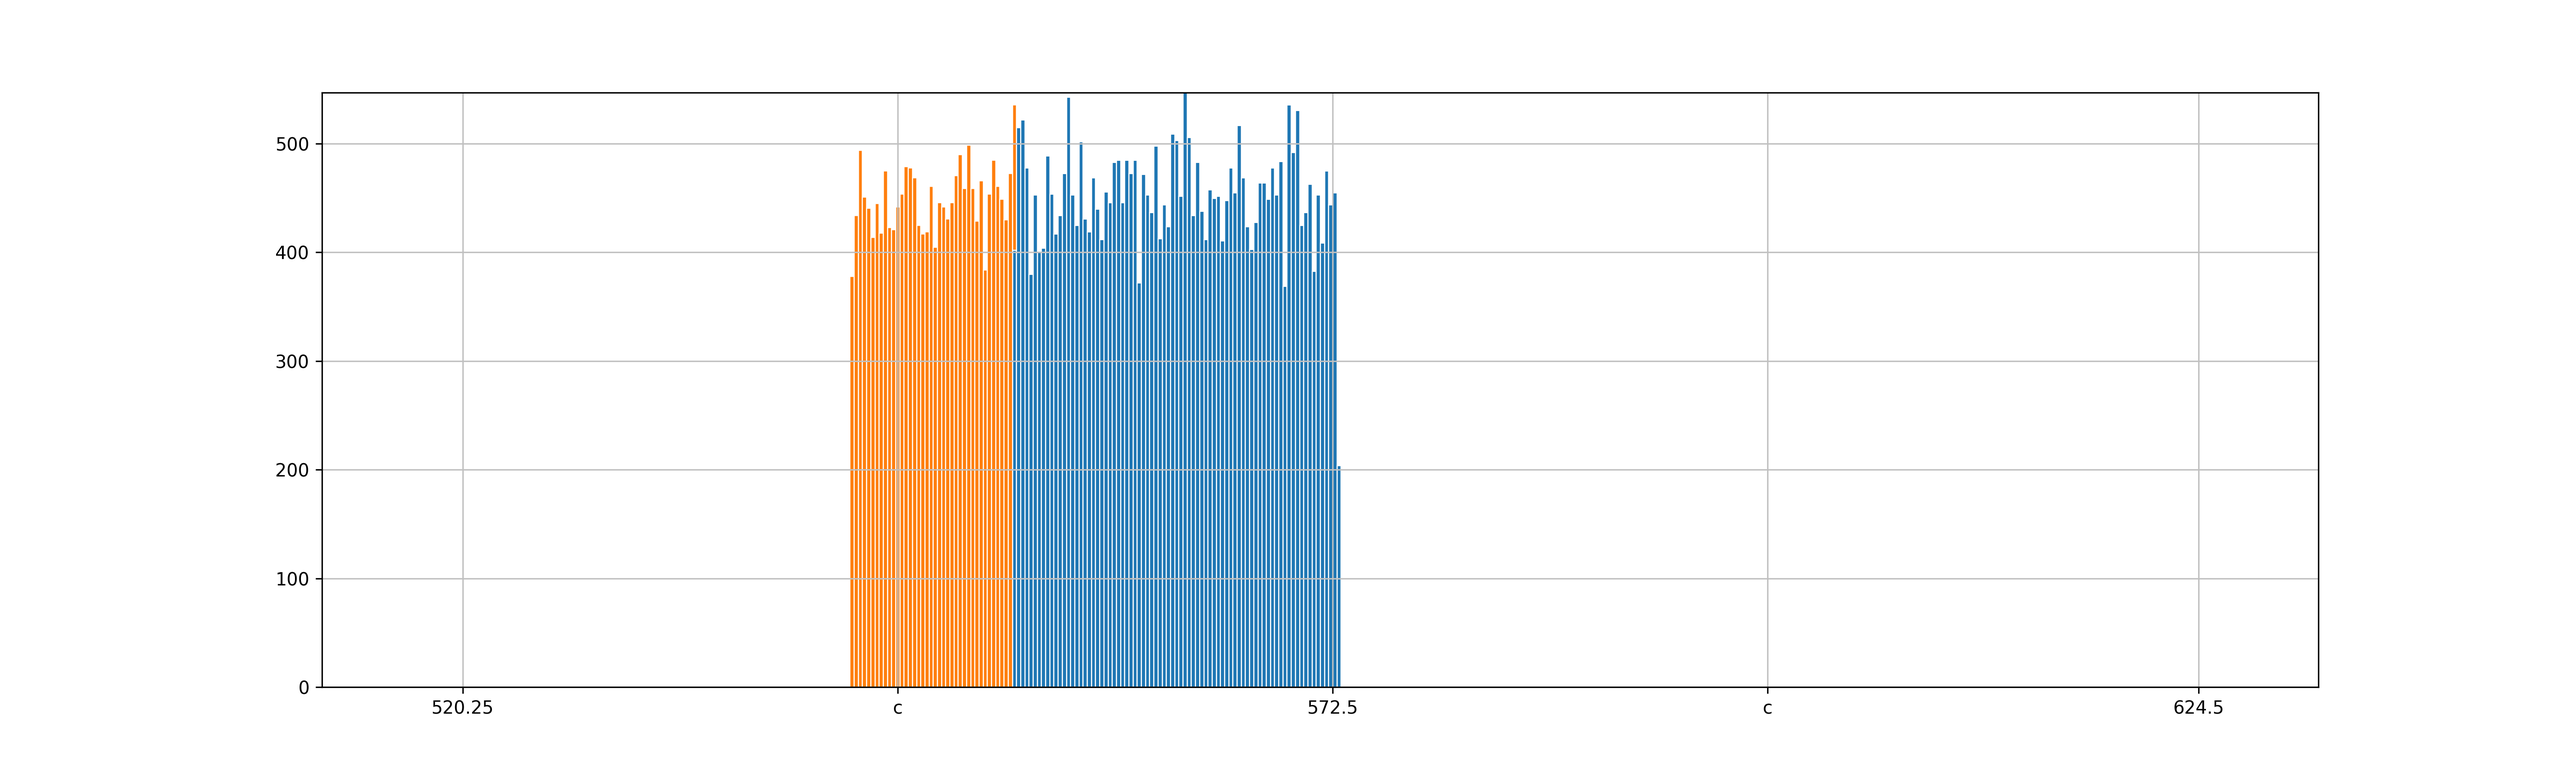
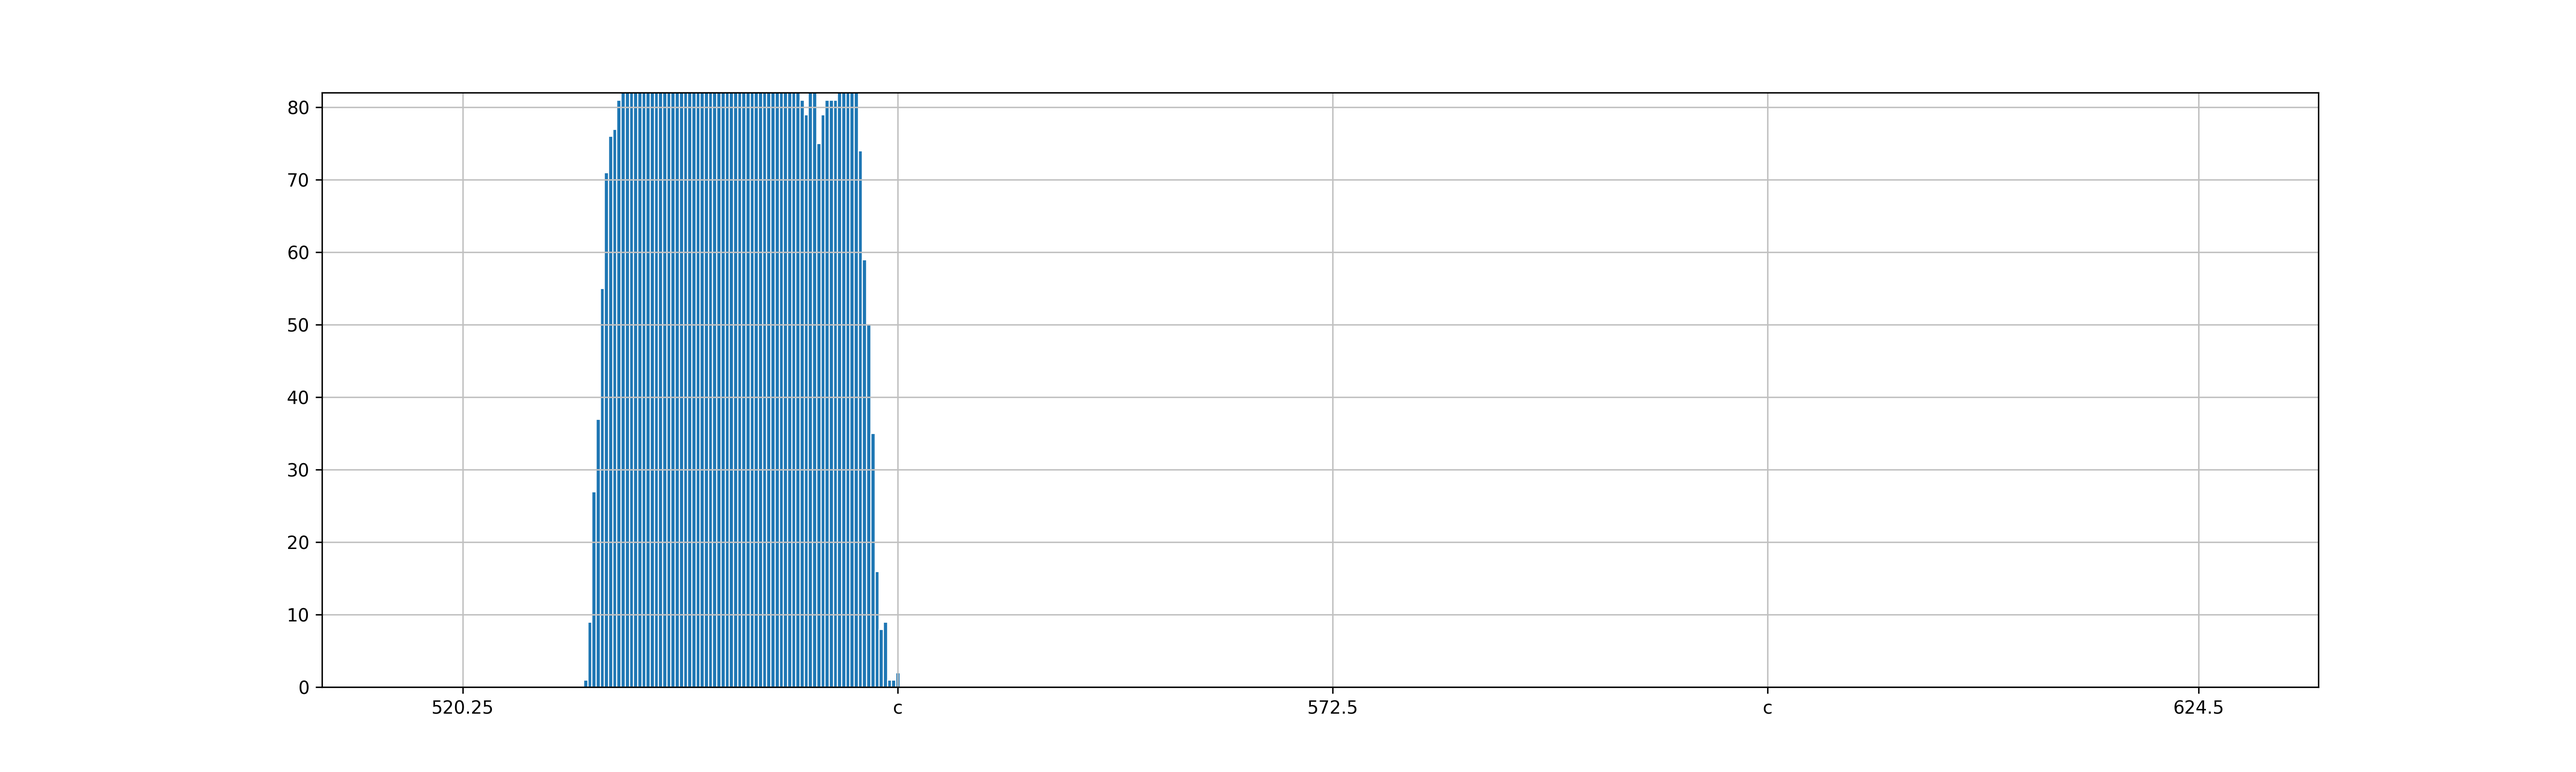
scope of 05. Stop bits added

Changed region(s): [[0.2182, 0.1244, 0.5298, 0.9022], [0.0935, 0.3111, 0.1247, 0.3422]]

diff --git a/Analyze.py b/Analyze.py
@@ -40,189 +40,189 @@ raw = '''[2278]:    0,    0
 [2316]:    0,    0
 [2317]:    0,    0
 [2318]:    0,    0
-[2319]:    0,    0
-[2320]:    0,    0
-[2321]:    0,    0
-[2322]:    0,    0
-[2323]:    0,    0
-[2324]:    0,    0
-[2325]:    0,    0
-[2326]:    0,    0
-[2327]:    0,    0
-[2328]:    0,    0
-[2329]:    0,    0
-[2330]:    0,    0
-[2331]:    0,    0
-[2332]:    0,    0
-[2333]:    0,    0
-[2334]:    0,    0
-[2335]:    0,    0
-[2336]:    0,    0
-[2337]:    0,    0
-[2338]:    0,    0
-[2339]:    0,    0
-[2340]:    0,    0
-[2341]:    0,    0
-[2342]:    0,    0
-[2343]:    0,    0
-[2344]:    0,    0
-[2345]:    0,    0
-[2346]:    0,    0
-[2347]:    0,    0
-[2348]:    0,    0
-[2349]:    0,    0
-[2350]:    0,    0
-[2351]:    0,    0
-[2352]:    0,    0
-[2353]:    0,    0
-[2354]:    0,    0
-[2355]:    0,    0
-[2356]:    0,    0
-[2357]:    0,    0
-[2358]:    0,    0
-[2359]:    0,    0
-[2360]:    0,    0
-[2361]:    0,    0
-[2362]:    0,    0
-[2363]:    0,    0
-[2364]:    0,    0
-[2365]:    0,    0
-[2366]:    0,    0
-[2367]:    0,    0
-[2368]:    0,    0
-[2369]:    0,    0
-[2370]:    0,    0
-[2371]:    0,    0
-[2372]:    0,    0
-[2373]:    0,    0
-[2374]:    0,    0
-[2375]:    0,    0
-[2376]:    0,    0
-[2377]:    0,    0
-[2378]:    0,    0
-[2379]:    0,    0
-[2380]:    0,    0
-[2381]:    0,    0
-[2382]:    0,    0
-[2383]:    0,  378
-[2384]:    0,  434
-[2385]:    0,  494
-[2386]:    0,  451
-[2387]:    0,  441
-[2388]:    0,  414
-[2389]:    0,  445
-[2390]:    0,  418
-[2391]:    0,  475
-[2392]:    0,  423
-[2393]:    0,  421
-[2394]:    0,  442
-[2395]:    0,  454
-[2396]:    0,  479
-[2397]:    0,  478
-[2398]:    0,  469
-[2399]:    0,  425
-[2400]:    0,  417
-[2401]:    0,  419
-[2402]:    0,  461
-[2403]:    0,  405
-[2404]:    0,  446
-[2405]:    0,  442
-[2406]:    0,  431
-[2407]:    0,  446
-[2408]:    0,  471
-[2409]:    0,  490
-[2410]:    0,  459
-[2411]:    0,  499
-[2412]:    0,  459
-[2413]:    0,  429
-[2414]:    0,  466
-[2415]:    0,  384
-[2416]:    0,  454
-[2417]:    0,  485
-[2418]:    0,  461
-[2419]:    0,  449
-[2420]:    0,  430
-[2421]:    0,  473
-[2422]:  402,  134
-[2423]:  515,    0
-[2424]:  522,    0
-[2425]:  478,    0
-[2426]:  380,    0
-[2427]:  453,    0
-[2428]:  400,    0
-[2429]:  404,    0
-[2430]:  489,    0
-[2431]:  454,    0
-[2432]:  417,    0
-[2433]:  434,    0
-[2434]:  473,    0
-[2435]:  543,    0
-[2436]:  453,    0
-[2437]:  425,    0
-[2438]:  502,    0
-[2439]:  431,    0
-[2440]:  419,    0
-[2441]:  469,    0
-[2442]:  440,    0
-[2443]:  412,    0
-[2444]:  456,    0
-[2445]:  446,    0
-[2446]:  483,    0
-[2447]:  485,    0
-[2448]:  446,    0
-[2449]:  485,    0
-[2450]:  473,    0
-[2451]:  485,    0
-[2452]:  372,    0
-[2453]:  472,    0
-[2454]:  453,    0
-[2455]:  437,    0
-[2456]:  498,    0
-[2457]:  413,    0
-[2458]:  444,    0
-[2459]:  424,    0
-[2460]:  509,    0
-[2461]:  503,    0
-[2462]:  452,    0
-[2463]:  547,    0
-[2464]:  506,    0
-[2465]:  434,    0
-[2466]:  483,    0
-[2467]:  438,    0
-[2468]:  412,    0
-[2469]:  458,    0
-[2470]:  450,    0
-[2471]:  452,    0
-[2472]:  411,    0
-[2473]:  448,    0
-[2474]:  478,    0
-[2475]:  455,    0
-[2476]:  517,    0
-[2477]:  469,    0
-[2478]:  424,    0
-[2479]:  403,    0
-[2480]:  428,    0
-[2481]:  464,    0
-[2482]:  464,    0
-[2483]:  449,    0
-[2484]:  478,    0
-[2485]:  453,    0
-[2486]:  484,    0
-[2487]:  369,    0
-[2488]:  536,    0
-[2489]:  492,    0
-[2490]:  531,    0
-[2491]:  425,    0
-[2492]:  437,    0
-[2493]:  463,    0
-[2494]:  383,    0
-[2495]:  453,    0
-[2496]:  409,    0
-[2497]:  475,    0
-[2498]:  444,    0
+[2319]:    1,    0
+[2320]:    9,    0
+[2321]:   27,    0
+[2322]:   37,    0
+[2323]:   55,    0
+[2324]:   71,    0
+[2325]:   76,    0
+[2326]:   77,    0
+[2327]:   81,    0
+[2328]:   82,    0
+[2329]:   82,    0
+[2330]:   82,    0
+[2331]:   82,    0
+[2332]:   82,    0
+[2333]:   82,    0
+[2334]:   82,    0
+[2335]:   82,    0
+[2336]:   82,    0
+[2337]:   82,    0
+[2338]:   82,    0
+[2339]:   82,    0
+[2340]:   82,    0
+[2341]:   82,    0
+[2342]:   82,    0
+[2343]:   82,    0
+[2344]:   82,    0
+[2345]:   82,    0
+[2346]:   82,    0
+[2347]:   82,    0
+[2348]:   82,    0
+[2349]:   82,    0
+[2350]:   82,    0
+[2351]:   82,    0
+[2352]:   82,    0
+[2353]:   82,    0
+[2354]:   82,    0
+[2355]:   82,    0
+[2356]:   82,    0
+[2357]:   82,    0
+[2358]:   82,    0
+[2359]:   82,    0
+[2360]:   82,    0
+[2361]:   82,    0
+[2362]:   82,    0
+[2363]:   82,    0
+[2364]:   82,    0
+[2365]:   82,    0
+[2366]:   82,    0
+[2367]:   82,    0
+[2368]:   82,    0
+[2369]:   82,    0
+[2370]:   82,    0
+[2371]:   81,    0
+[2372]:   79,    0
+[2373]:   82,    0
+[2374]:   82,    0
+[2375]:   75,    0
+[2376]:   79,    0
+[2377]:   81,    0
+[2378]:   81,    0
+[2379]:   81,    0
+[2380]:   82,    0
+[2381]:   82,    0
+[2382]:   82,    0
+[2383]:   82,    0
+[2384]:   82,    0
+[2385]:   74,    0
+[2386]:   59,    0
+[2387]:   50,    0
+[2388]:   35,    0
+[2389]:   16,    0
+[2390]:    8,    0
+[2391]:    9,    0
+[2392]:    1,    0
+[2393]:    1,    0
+[2394]:    2,    0
+[2395]:    0,    0
+[2396]:    0,    0
+[2397]:    0,    0
+[2398]:    0,    0
+[2399]:    0,    0
+[2400]:    0,    0
+[2401]:    0,    0
+[2402]:    0,    0
+[2403]:    0,    0
+[2404]:    0,    0
+[2405]:    0,    0
+[2406]:    0,    0
+[2407]:    0,    0
+[2408]:    0,    0
+[2409]:    0,    0
+[2410]:    0,    0
+[2411]:    0,    0
+[2412]:    0,    0
+[2413]:    0,    0
+[2414]:    0,    0
+[2415]:    0,    0
+[2416]:    0,    0
+[2417]:    0,    0
+[2418]:    0,    0
+[2419]:    0,    0
+[2420]:    0,    0
+[2421]:    0,    0
+[2422]:    0,    0
+[2423]:    0,    0
+[2424]:    0,    0
+[2425]:    0,    0
+[2426]:    0,    0
+[2427]:    0,    0
+[2428]:    0,    0
+[2429]:    0,    0
+[2430]:    0,    0
+[2431]:    0,    0
+[2432]:    0,    0
+[2433]:    0,    0
+[2434]:    0,    0
+[2435]:    0,    0
+[2436]:    0,    0
+[2437]:    0,    0
+[2438]:    0,    0
+[2439]:    0,    0
+[2440]:    0,    0
+[2441]:    0,    0
+[2442]:    0,    0
+[2443]:    0,    0
+[2444]:    0,    0
+[2445]:    0,    0
+[2446]:    0,    0
+[2447]:    0,    0
+[2448]:    0,    0
+[2449]:    0,    0
+[2450]:    0,    0
+[2451]:    0,    0
+[2452]:    0,    0
+[2453]:    0,    0
+[2454]:    0,    0
+[2455]:    0,    0
+[2456]:    0,    0
+[2457]:    0,    0
+[2458]:    0,    0
+[2459]:    0,    0
+[2460]:    0,    0
+[2461]:    0,    0
+[2462]:    0,    0
+[2463]:    0,    0
+[2464]:    0,    0
+[2465]:    0,    0
+[2466]:    0,    0
+[2467]:    0,    0
+[2468]:    0,    0
+[2469]:    0,    0
+[2470]:    0,    0
+[2471]:    0,    0
+[2472]:    0,    0
+[2473]:    0,    0
+[2474]:    0,    0
+[2475]:    0,    0
+[2476]:    0,    0
+[2477]:    0,    0
+[2478]:    0,    0
+[2479]:    0,    0
+[2480]:    0,    0
+[2481]:    0,    0
+[2482]:    0,    0
+[2483]:    0,    0
+[2484]:    0,    0
+[2485]:    0,    0
+[2486]:    0,    0
+[2487]:    0,    0
+[2488]:    0,    0
+[2489]:    0,    0
+[2490]:    0,    0
+[2491]:    0,    0
+[2492]:    0,    0
+[2493]:    0,    0
+[2494]:    0,    0
+[2495]:    0,    0
+[2496]:    0,    0
+[2497]:    0,    0
+[2498]:    0,    0
 [2499]->12
-[2499]:  455,    0
-[2500]:  204,    0
+[2499]:    0,    0
+[2500]:    0,    0
 [2501]:    0,    0
 [2502]:    0,    0
 [2503]:    0,    0

diff --git a/Result/Scope.md b/Result/Scope.md
@@ -1,0 +1,7 @@
+# Scope 0.5 Stop Bit
+
+* yellow: one during one UART Byte :
+* green: generated UART Byte including Glitch
+* red: RTS Signal from receiving USART PPeripheral (USART1)
+* blue: marking a misread uart Byte from previous RUN 
+* ![Scope_0.5_StopBit](Scope_0.5_StopBit.gif)
